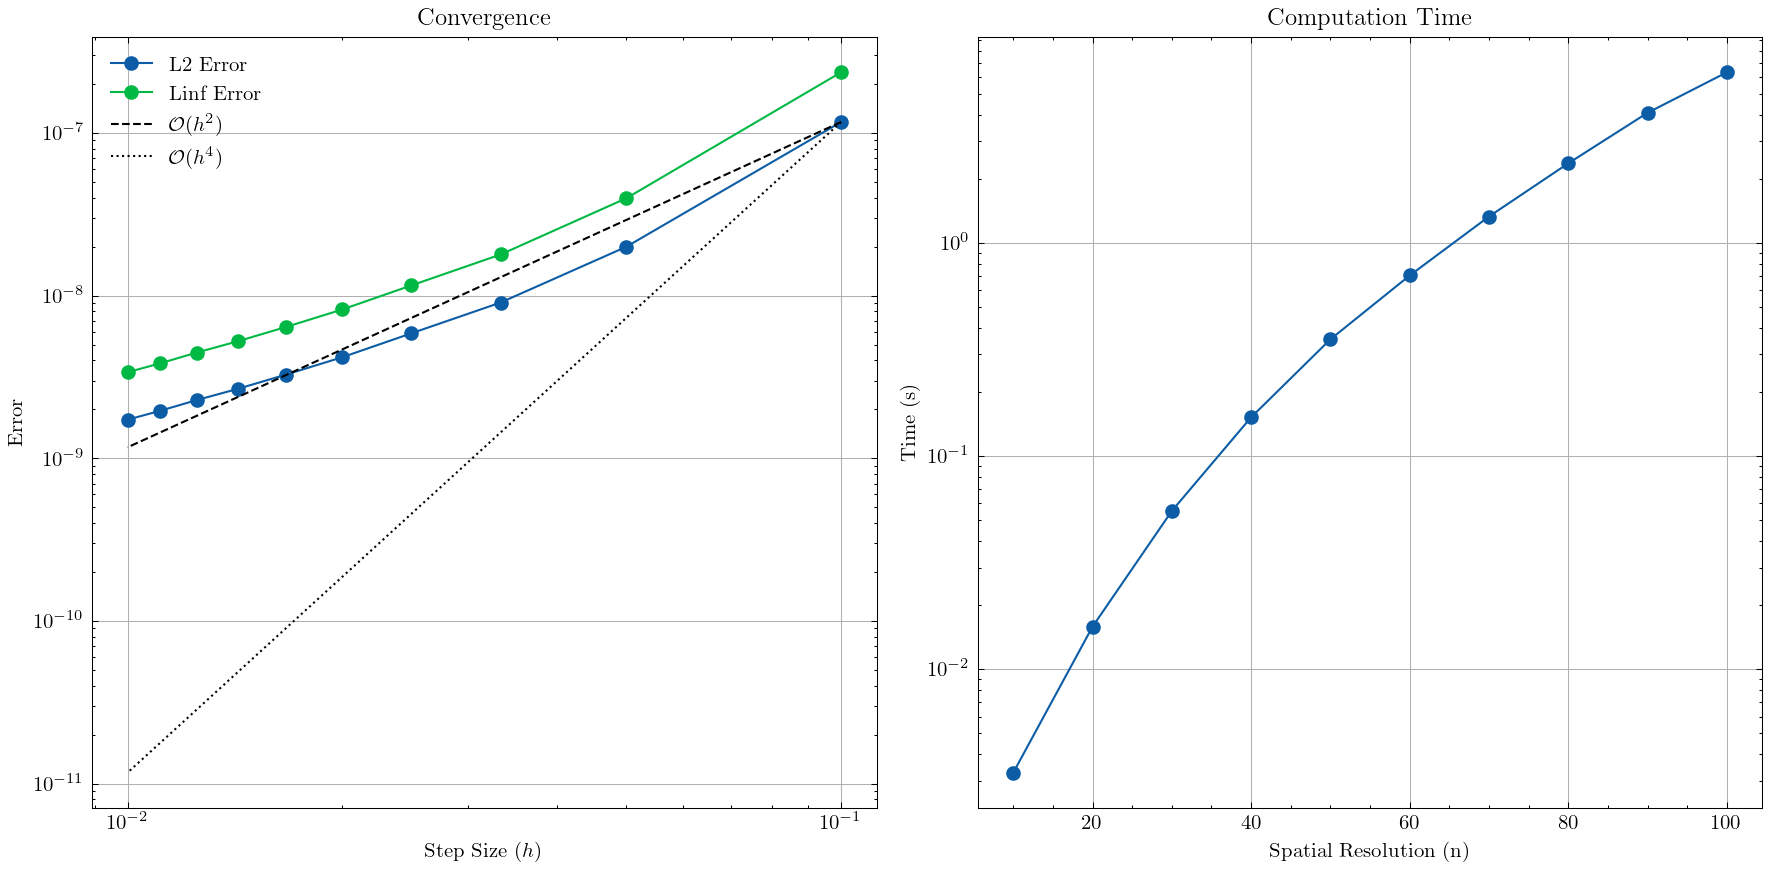
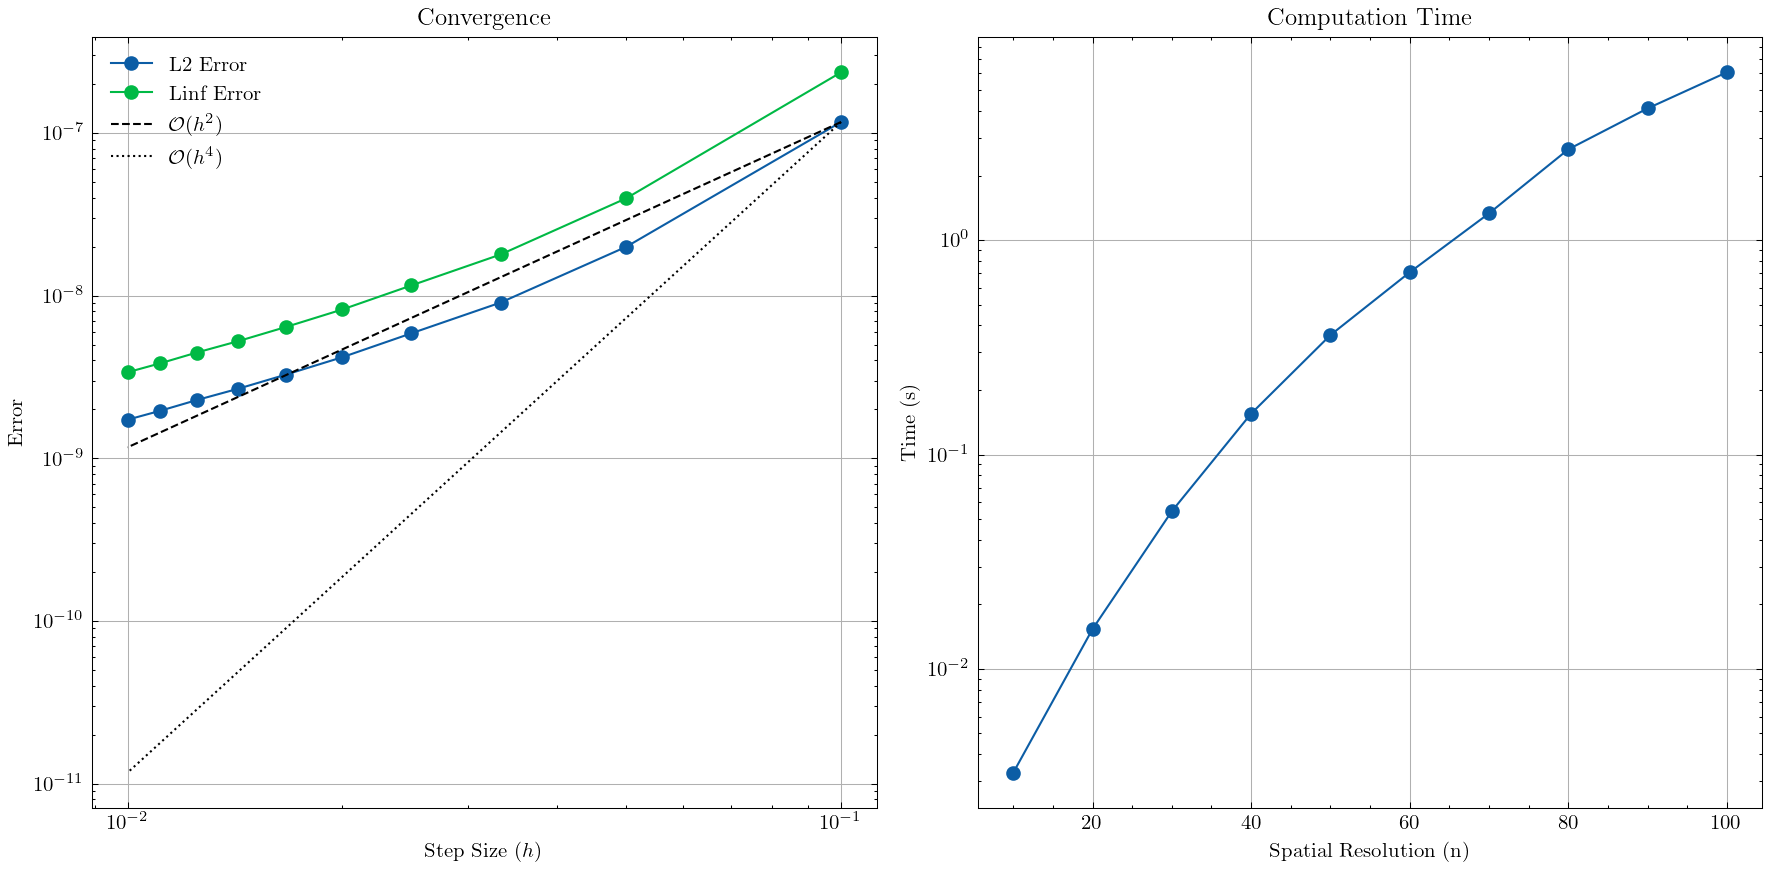
Refactor simulation code and update theory section for clarity and accuracy; remove unused image and improve stability analysis.

diff --git a/simulation/theory.py b/simulation/theory.py
@@ -1,4 +1,5 @@
 import numpy as np
+import time
 import matplotlib.pyplot as plt
 from matplotlib.animation import FuncAnimation
 from scipy.sparse import diags, eye, kron
@@ -10,11 +11,11 @@ plt.style.use("science")
 
 
 class Heat:
-    def __init__(self, mu, a, g, n=25, h=None, k=None):
+    def __init__(self, mu, a, g, n=25):
         self.n = n
         self.N = (n + 1) ** 2
-        self.h = 1.0 / n if h is None else h
-        self.k = self.h**2 if k is None else k
+        self.h = 1.0 / n
+        self.k = 1.0 / n
         
         self.mu, self.a = mu, a
         self.r = mu * self.k / (self.h**2)
@@ -28,6 +29,7 @@ class Heat:
         self.U = np.zeros(self.N)
         self.L = self.laplacian(n)
 
+
     @staticmethod
     def laplacian(n):
         diag = -2 * np.ones(n + 1)
@@ -36,7 +38,7 @@ class Heat:
         Lh = diags([off, diag, off], [-1, 0, 1], shape=(n + 1, n + 1))
         Ih = eye(n + 1)
         return kron(Ih, Lh) + kron(Lh, Ih)
-
+    
     def set_BC(self, U, t=0):
         if np.shape(U) == (self.N,):
             U = U.reshape((self.n + 1, self.n + 1))
@@ -53,10 +55,10 @@ class Heat:
     def set_IC(self, u0):
         self.U = u0(self.Xf, self.Yf).flatten()
 
-    def simulate(self, tf=1.0, snapshot_stride=None):
-        if snapshot_stride is None:
-            snapshot_stride = int(1 / self.k)
+    def simulate(self, tf=1.0, snapshot_stride=1):
         T = int(tf / self.k)
+        if T < 1:
+            T = int(self.k / tf)
         I = eye(self.N)
         
         A = factorized((I - (self.r / 2) * self.L).tocsc())
@@ -99,7 +101,17 @@ class Heat:
 
     def set_k(self, k):
         self.k = k
-
+        
+    def set_h(self, h):
+        self.h = h
+        self.n = int(1.0 / h)
+        self.N = (self.n + 1) ** 2
+        self.r = self.mu * self.k / (self.h**2)
+        self.x = self.y = np.arange(self.n + 1) * self.h
+        self.X, self.Y = np.meshgrid(self.x, self.y)
+        self.Xf, self.Yf = np.meshgrid(self.x, self.y)
+        self.L = self.laplacian(self.n)
+        
     def plot_solution(self, t_idx=0, U_snapshots=None, t=None):
         if U_snapshots is None:
             U_snap = self.U
@@ -150,7 +162,6 @@ class Heat:
             return current_surf
 
         def update(frame):
-            # Remove current surface
             for s in current_surf:
                 s.remove()
             current_surf.clear()
@@ -159,10 +170,7 @@ class Heat:
             U_shaped = U_snapshots[frame].reshape((self.n + 1, self.n + 1))
             new_surf = ax.plot_surface(X, Y, U_shaped, cmap="viridis", edgecolor="none")
             current_surf.append(new_surf)
-
-            # Update title
             title.set_text(f"t = {t[frame]:.4f}")
-
             return current_surf
 
         anim = FuncAnimation(
@@ -178,7 +186,7 @@ class Heat:
         return fig, anim
 
 
-def g0(x, y, t):
+def g0(x, y, t): 
     return np.sin(np.pi * x) * np.sin(np.pi * y) * np.exp(-2 * np.pi**2 * t)
 
 def u0(x, y):
@@ -227,4 +235,122 @@ def heat_error_analysis_1(Heat, g0, u0):
         
     plt.tight_layout()
     plt.show()
+    
+    
+
+
+def u_exact(x, y, t, mu=1.0, a=0.0):
+    return np.sin(np.pi * x) * np.sin(np.pi * y) * np.exp(-(2 * np.pi**2 * mu - a) * t)
+
+
+def g_exact(x, y, t, mu=1.0, a=0.0):
+    return u_exact(x, y, t, mu, a)
+
+
+def u0_exact(x, y, mu=1.0, a=0.0):
+    return u_exact(x, y, 0, mu, a)
+
+
+def compute_errors(n_values, T=1.0, mu=1.0, a=0.0):
+    """
+    Compute L2 and L-infinity errors for various grid resolutions.
+    """
+    errors_L2 = np.zeros(len(n_values))
+    errors_Linf = np.zeros(len(n_values))
+    times = np.zeros(len(n_values))
+    
+    for i, n in enumerate(n_values):
+        start_time = time.time()
+    
+        heat = Heat(mu=mu, a=a, g=g_exact, n=n)
+        heat.set_IC(lambda x, y: u_exact(x, y, 0, mu, a))
+        
+        # Run simulation
+        U_snapshots, t = heat.simulate(tf=T, snapshot_stride=1)
+        times[i] = time.time() - start_time
+        
+        # Compute exact solution at final time
+        X, Y = heat.get_grid()
+        U_exact = u_exact(X, Y, T, mu, a).flatten()
+        
+        # Compute errors
+        error = U_snapshots[-1] - U_exact
+        errors_L2[i] = np.sqrt(np.mean(error**2))
+        errors_Linf[i] = np.max(np.abs(error))
+        
+        print(f"n={n}, h={1.0/n:.6f}, L2 Error={errors_L2[i]:.6e}, Linf Error={errors_Linf[i]:.6e}")
+    
+    return errors_L2, errors_Linf, times
+
+fig, (ax_k, ax_h) = plt.subplots(1, 2, figsize=(12, 6), dpi=150)
+
+n = 50
+h = 1.0/n
+mu = 1.0
+a = 1.0 
+T = 1.0
+
+k_values = np.logspace(-3, 2, 30)
+E_k = []
+for k in k_values:
+    heat = Heat(mu=1.0, a=1.0, n=50, g=g0)
+    heat.set_IC(u0)
+    heat.set_k(k)
+    h = heat.get_h()
+    
+    stride = max(1, int(T/(100*k))) 
+    U_snapshots, t = heat.simulate(tf=T, snapshot_stride=stride)
+    
+    X, Y = heat.get_grid()
+    U_exact_k = u_exact(X, Y, T, mu, a).flatten()
+    E_k.append(np.max(np.abs(U_snapshots[-1] - U_exact_k)))
+    print(f"k={k:.4e}, max error={E_k[-1]:.4e}")
+    
+
+ax_k.loglog(k_values, np.array(E_k), 'bo-', label='$\\mathcal{O}(k^p)$', linewidth=1.5)
+
+ax_k.loglog(k_values, k_values, 'k--', label=r'$\mathcal{O}(k)$', alpha=0.5)
+ax_k.loglog(k_values, k_values**2, 'k:', label=r'$\mathcal{O}(k^2)$')
+ax_k.loglog(k_values, k_values**3, 'k-.', label=r'$\mathcal{O}(k^3)$', alpha=0.5)
+
+ax_k.set_xlabel('Time Step $(k)$', fontsize=14)
+ax_k.set_ylabel('Error', fontsize=14)
+ax_k.set_title(f'Error vs Time Step', fontsize=20)
+ax_k.legend(fontsize=12)
+ax_k.grid(True)
+
+
+# =========== H-convergence ===========
+n_values = np.logspace(1, 2.5, 30, dtype=int)
+h_values = 1.0/n_values
+E_h = []
+
+for n in n_values:
+    k = 1.0/n
+    heat = Heat(mu=1.0, a=1.0, n=n, g=g0)
+    heat.set_IC(u0)
+    
+    stride = max(1, int(T/(100*k)))
+    U_snapshots, t = heat.simulate(tf=T, snapshot_stride=stride)
+    
+    X, Y = heat.get_grid()
+    U_exact = u_exact(X, Y, T, mu, a).flatten()
+    E_h.append(np.max(np.abs(U_snapshots[-1] - U_exact)))
+    print(f"n={n}, h={1.0/n:.4e}, k={k:.4e}, max error={E_h[-1]:.4e}")
+
+E_h = np.array(E_h)
+
+ax_h.loglog(h_values, E_h, 'ro-', label='$\\mathcal{O}(h^p)$', linewidth=1.5)
+ax_h.loglog(h_values, h_values, 'k--', label=r'$\mathcal{O}(h)$', alpha=0.5)
+ax_h.loglog(h_values, h_values**2, 'k:', label=r'$\mathcal{O}(h^2)$')
+
+ax_h.set_xlabel('Step Size $(h)$', fontsize=14)
+ax_h.set_ylabel('Error', fontsize=14)
+ax_h.set_title('Error vs Grid Size', fontsize=20)
+ax_h.legend(fontsize=10)
+ax_h.grid(True)
+
+plt.tight_layout()
+plt.savefig('heat_convergence.png', dpi=300)
+plt.show()
 

diff --git a/sections/theory.tex b/sections/theory.tex
@@ -490,6 +490,8 @@ To determine the consistency of the Crank-Nicolson scheme for the heat equation 
   \end{align*}
 \end{proof}
 
+
+
 \subsubsection{Stability (Von Neumann)}
 \begin{theorem}{von Neumann Stability for Crank--Nicolson}{von_neumann_cn}
   The Crank--Nicolson scheme for the heat equation with linear reaction term $f(u) = au$ is unconditionally stable for any choice of step sizes $h$ and $k$. The amplification factor $\xi$ satisfies:
@@ -546,11 +548,15 @@ To determine the consistency of the Crank-Nicolson scheme for the heat equation 
   Therefore, $|\xi| \leq 1 + Ck$ with $C = |a|(1 + |a|k/2) \approx |a|$ for small $k$, confirming the scheme is unconditionally stable.
 \end{proof}
 
+\paragraph{Unconditional Stability}
+The modified Crank--Nicolson scheme is unconditionally stable, meaning it remains stable for any choice of step sizes $h$ and $k$.
+This is a significant advantage over explicit methods like FTCS, which require careful selection of step sizes to maintain a stable solution.
+
 \subsubsection{Convergence}
 \begin{theorem}{Lax Equivalence and Convergence of Crank--Nicolson}{cn_convergence}
   Since the Crank--Nicolson scheme is both consistent and stable, by the Lax Equivalence Theorem (Theorem~\ref{thm:lax}), it is convergent. Under the parabolic scaling $k \sim h^2$, the scheme achieves second-order convergence:
   \[
-    \|e_m^n\| = \mathcal{O}\!\left(h^2 + k^2\right)
+    \|e_m^n\| = \mathcal{O}\left(h^2 + k^2\right)
   \]
 \end{theorem}
 
@@ -560,4 +566,28 @@ To determine the consistency of the Crank-Nicolson scheme for the heat equation 
   Despite being implicit (requiring the solution of a linear system at each step), Crank--Nicolson's superior stability and accuracy properties often justify the additional computational cost compared to explicit methods like FTCS.
 \end{remark}
 
-\subsection{Numerical Experiments}
+\paragraph{Global Error}
+
+\subsection{Numerical Verification of Theoretical Results}
+
+To validate our theoretical analysis, we conduct numerical experiments focusing on three key aspects:
+
+\paragraph{Convergence Rate Verification}
+We examine the empirical convergence rates by computing solutions with successively refined meshes. For a sequence of step sizes $h_i = h_0/2^i$, we compute the corresponding errors $e_i$ and estimate the convergence rate $p$ from:
+\[
+  p \approx \frac{\log(e_i/e_{i+1})}{\log(h_i/h_{i+1})}
+\]
+
+\paragraph{Error vs. Step Size}
+We plot the global error against both spatial and temporal step sizes, expecting to observe:
+\begin{itemize}
+  \item Second-order convergence under parabolic scaling ($k \sim h^2$)
+  \item Error behavior matching our theoretical prediction $\mathcal{O}(h^2 + k^2)$
+\end{itemize}
+
+\paragraph{Stability Analysis}
+We verify unconditional stability by testing various combinations of step sizes, including cases where the CFL number $\mu k/h^2$ is large, and monitor solution behavior for signs of instability.
+
+These numerical experiments serve to confirm our theoretical findings and demonstrate the practical reliability of the Crank-Nicolson scheme.
+
+

diff --git a/simulation/theory_validation.py b/simulation/theory_validation.py
@@ -99,7 +99,7 @@ def demonstrate_stability():
     """
     Demonstrate the unconditional stability by using extremely large time steps.
     """
-    T = 1.0
+    T = 10
     mu = 1.0
     a = 1.0
     n = 50
@@ -187,7 +187,6 @@ def animate_solution():
     anim.save('solution_animation.mp4', fps=15, extra_args=['-vcodec', 'libx264'])
     return fig, anim
 
-
 def study_parameter_effects():
     """Study the effects of mu and a parameters on the solution"""
     n = 50
@@ -245,13 +244,12 @@ def error_vs_timestep():
     """
     Study how error varies with timestep size while keeping spatial resolution fixed
     """
-    n = 50 # Increased spatial resolution for better accuracy
+    n = 50 
     mu = 1.0
-    a = 1.0  # Using a=0 for simpler analysis
+    a = 1.0  
     T = 1.0
     
-    # More timestep values for smoother plots
-    k_values = np.logspace(-5, 0, 25)  # 20 points from 10^-4 to 10^0
+    k_values = np.logspace(-5, 0, 25)  
     errors = []
     
     for k in k_values:

diff --git a/simulation/application.py b/simulation/application.py
@@ -136,7 +136,6 @@ gamma = 1.0
 
 muS = 0.001
 muI = 0.001
-
 rate = 0.25
 
 # prob = 0.05
